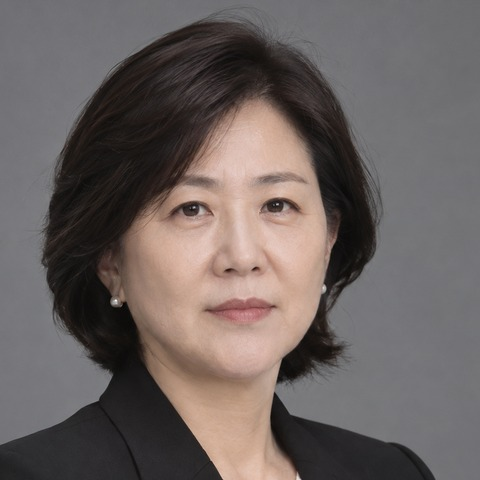
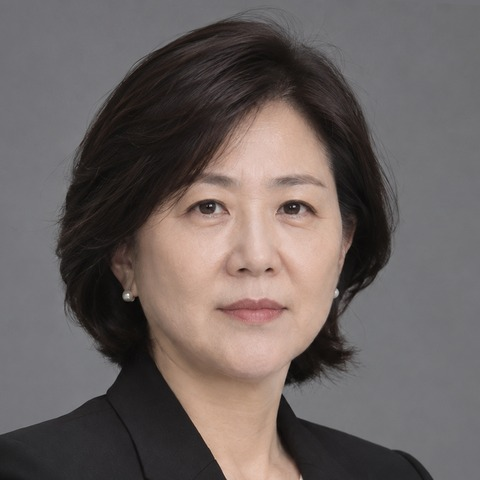
위원 명단: 한수연 사진 수평·가운데 보정, 위원 사진 캐시 버전 자동 부착
- 한수연: 두 눈 높이를 맞추도록 2.8° 회전, 얼굴과 머리 윤곽의 중간을 가운데로 다시 자름
- 위원 사진 주소에 사진 내용 해시(?v=)를 붙여 같은 이름으로 바꾼 사진도 바로 새로 보이게(명단 · 명함 · 출강 페이지)
- 작업-메모 사진 보정 기준 추가

Claude-Session: https://claude.ai/code/session_01KoEEpjpPmLkJkEAefGUqRE

diff --git a/members/index.html b/members/index.html
@@ -260,7 +260,7 @@
         +(NOTE[g]?'<p class="grp-note">'+NOTE[g]+'</p>':'');
     }
     function avatar(m){
-      if(m.photo)return '<div class="member-avatar member-avatar--photo"><img src="/assets/img/members/'+m.photo+'" alt="'+m.name+'" loading="lazy"></div>';
+      if(m.photo)return '<div class="member-avatar member-avatar--photo"><img src="/assets/img/members/'+m.photo+'?v=2511bc37" alt="'+m.name+'" loading="lazy"></div>';
       var initial=(m.name||'?').replace(/[^가-힣A-Za-z]/g,'').slice(0,1)||'·';
       return '<div class="member-avatar">'+initial+'</div>';
     }
@@ -388,7 +388,7 @@
     function sinceLabel(p){return SINCE[p.g]||'위촉'}
     function today(){var d=new Date();return d.getFullYear()+'.'+('0'+(d.getMonth()+1)).slice(-2)+'.'+('0'+d.getDate()).slice(-2)}
     function bigAvatar(m){
-      if(m.photo)return '<div class="bc-photo"><img src="/assets/img/members/'+m.photo+'" alt="'+m.name+' 사진"></div>';
+      if(m.photo)return '<div class="bc-photo"><img src="/assets/img/members/'+m.photo+'?v=2511bc37" alt="'+m.name+' 사진"></div>';
       var initial=(m.name||'?').replace(/[^가-힣A-Za-z]/g,'').slice(0,1)||'·';
       return '<div class="bc-photo bc-photo--initial">'+initial+'</div>';
     }

diff --git a/lecture/index.html b/lecture/index.html
@@ -576,7 +576,7 @@
     box.style.maxWidth='560px';box.style.margin='0 auto';
     box.innerHTML=list.map(function(m){
       var av;
-      if(m.photo){av='<div class="member-avatar member-avatar--photo"><img src="/assets/img/members/'+m.photo+'" alt="'+m.name+'" loading="lazy"></div>'}
+      if(m.photo){av='<div class="member-avatar member-avatar--photo"><img src="/assets/img/members/'+m.photo+'?v=2511bc37" alt="'+m.name+'" loading="lazy"></div>'}
       else{var initial=(m.name||'?').replace(/[^가-힣A-Za-z]/g,'').slice(0,1)||'·';av='<div class="member-avatar">'+initial+'</div>'}
       return '<div class="member">'+av
         +'<div class="member-role">'+(m.role||'전문위원')+'</div>'

diff --git a/build.py b/build.py
@@ -177,6 +177,19 @@ def _asset_version():
 BUILD_V = _asset_version()
 
 
+def _photo_version():
+    """위원 사진(assets/img/members/*)의 내용 해시. 사진 주소에 ?v= 로 붙여, 같은 파일명으로 사진을 바꿔도
+    이미 방문한 브라우저가 옛 사진을 계속 보여 주지 않게 합니다 (2026.09.26)."""
+    import hashlib
+    h = hashlib.sha1()
+    for p in sorted(glob.glob(os.path.join(os.path.dirname(os.path.abspath(__file__)), "assets", "img", "members", "*"))):
+        with open(p, "rb") as f:
+            h.update(os.path.basename(p).encode() + b"\0" + f.read() + b"\0")
+    return h.hexdigest()[:8]
+
+PHOTO_V = _photo_version()
+
+
 def _inline(s):
     """굵게 **텍스트**, 링크 [텍스트](주소) 변환"""
     s = _html.escape(s, quote=False)
@@ -1554,7 +1567,7 @@ def build_members():
         +(NOTE[g]?'<p class="grp-note">'+NOTE[g]+'</p>':'');
     }
     function avatar(m){
-      if(m.photo)return '<div class="member-avatar member-avatar--photo"><img src="assets/img/members/'+m.photo+'" alt="'+m.name+'" loading="lazy"></div>';
+      if(m.photo)return '<div class="member-avatar member-avatar--photo"><img src="assets/img/members/'+m.photo+'?v=__PV__" alt="'+m.name+'" loading="lazy"></div>';
       var initial=(m.name||'?').replace(/[^가-힣A-Za-z]/g,'').slice(0,1)||'·';
       return '<div class="member-avatar">'+initial+'</div>';
     }
@@ -1682,7 +1695,7 @@ def build_members():
     function sinceLabel(p){return SINCE[p.g]||'위촉'}
     function today(){var d=new Date();return d.getFullYear()+'.'+('0'+(d.getMonth()+1)).slice(-2)+'.'+('0'+d.getDate()).slice(-2)}
     function bigAvatar(m){
-      if(m.photo)return '<div class="bc-photo"><img src="assets/img/members/'+m.photo+'" alt="'+m.name+' 사진"></div>';
+      if(m.photo)return '<div class="bc-photo"><img src="assets/img/members/'+m.photo+'?v=__PV__" alt="'+m.name+' 사진"></div>';
       var initial=(m.name||'?').replace(/[^가-힣A-Za-z]/g,'').slice(0,1)||'·';
       return '<div class="bc-photo bc-photo--initial">'+initial+'</div>';
     }
@@ -2002,7 +2015,7 @@ def build_members():
     }else if(op){op.parentElement.parentElement.style.display='none'}
   })();
   </script>
-""".replace("__EMAIL__", EMAIL).replace("__SITE__", SITE_URL)
+""".replace("__EMAIL__", EMAIL).replace("__SITE__", SITE_URL).replace("__PV__", PHOTO_V)
     page("members.html", "위원 명단",
          "한국AI윤리위원회 위원장·부위원장·감사·고문 및 자문위원, 사무국, 전문위원, AI 윤리 캠페인위원 명단과 공식 등록 AI윤리전문가(성명·이수번호 검색), 공식 파트너를 안내합니다.",
          body, extra_script=script)
@@ -3671,7 +3684,7 @@ def build_lecture():
     box.style.maxWidth='560px';box.style.margin='0 auto';
     box.innerHTML=list.map(function(m){
       var av;
-      if(m.photo){av='<div class="member-avatar member-avatar--photo"><img src="assets/img/members/'+m.photo+'" alt="'+m.name+'" loading="lazy"></div>'}
+      if(m.photo){av='<div class="member-avatar member-avatar--photo"><img src="assets/img/members/'+m.photo+'?v=__PV__" alt="'+m.name+'" loading="lazy"></div>'}
       else{var initial=(m.name||'?').replace(/[^가-힣A-Za-z]/g,'').slice(0,1)||'·';av='<div class="member-avatar">'+initial+'</div>'}
       return '<div class="member">'+av
         +'<div class="member-role">'+(m.role||'전문위원')+'</div>'
@@ -3703,7 +3716,7 @@ def build_lecture():
     });
   })();
   </script>
-""".replace('__LEMAIL__', L_EMAIL)
+""".replace('__LEMAIL__', L_EMAIL).replace("__PV__", PHOTO_V)
 
     page("lecture.html", "AI 윤리교육 · 전문 출강",
          "한국AI윤리위원회 소속 석·박사 전문위원이 학교·기업·공공기관에 직접 출강하는 맞춤형 AI 윤리교육. AI 윤리, 기업 AI 컴플라이언스, 개인정보·보안, 생성형 AI 저작권, 청소년 AI 윤리를 1~4시간 과정으로 제공합니다.",

diff --git a/작업-메모.md b/작업-메모.md
@@ -124,7 +124,7 @@
   2차(같은 날) 사용자 지시 반영: ①그룹 제목 옆 인원수 → 남색 배지(위원장·부위원장·감사 'KAIEC 임원', 고문·자문위원 'KAIEC 자문단', 사무국 'KAIEC 운영진', 전문위원 'KAIEC 공식 출강', 캠페인위원 'KAIEC 공식 위촉'), 전문위원 안내문(현장 출강 · 석·박사 2인 공동 출강 · 출강 문의 링크). ②명함 인증 칩도 그룹별(임원 · 고문·자문위원 · 사무국 · 'KAIEC 공식 출강 강사' · 공식 위촉), 분야 라벨도 그룹별(담당/자문 분야/전문 분야/활동 분야). 전문위원 명함은 'AI 윤리 전문 교육 강사' 표기 + [출강 문의하기](/lecture/#request, 코드 상자 바로 아래) + 출강 대상·방식 행. ③[연락처 저장](vCard)은 '개인정보처럼 보인다'는 우려로 삭제(실제로는 대표 메일만 담았음) → [명함 이미지 저장](캔버스로 그린 1080×1350 PNG: 로고·사진·이름·코드·QR·소속·분야, 모바일은 공유 시트로 사진 저장/카톡 전송, PC는 KAIEC_<id>.png 다운로드, 명함 열 때 미리 생성) + [명함 공유](모바일 공유 시트, PC는 링크 복사). QR 라이브러리로 이미지 안 QR도 그림. ④모바일에서 명함 헤더의 흰 KAIEC 배지 글자 아래가 잘린다는 지적 → 명함 전용 로고 BADGE_CARD · WORDMARK_CARD(viewBox 사방 여백) + overflow:visible, 배지 86×40 · 워드마크 178px로 키움(≤380px 축소). 대표 메일과 홈페이지는 '대표 연락처' 한 행으로 합침.
   캠페인위원 추가(2026.09.26): 조성희 CSH7321(Cho Sung-hee), 지정인 JJI0046(Ji Jung-in), 서완석 SWS7351(Seo Wan-seok). 이재이 사진 교체(검정 재킷). 사용자 허락: 받은 관심분야는 있어 보이게 다듬어 넣어도 됨(예: 'AI 창업 비즈니스' → 'AI 창업 · 책임 있는 AI 비즈니스', 'AI 디지털교육' → 'AI · 디지털 교육 혁신'). 사진 크롭은 가로가 모자라면 가장자리 복제(np.pad edge)로 넓혀 머리 위 5% · 얼굴 비율을 다른 위원과 맞춤, 투명 PNG는 흰 배경 합성.
   3차(같은 날): ①명함 머리 로고가 1배율 화면에서 흐릿하다는 지적 → 명함 머리만 벡터 패스 대신 글꼴 텍스트(.bc-lockup: KAIEC Archivo 800, 국문 Noto Serif KR 900 24px, 캡션 Archivo 700 10px 자간 .169em로 국문 폭과 맞춤), 진남색 머리띠 + 금색 실선, 금색 테두리 배지. 헤더·푸터 워드마크는 기존 벡터 그대로. ②[명함 이미지 저장]을 진남색·금색 증서식 위원증으로 재설계: 2160×2700(논리 1080×1350 ×2), 이중 테두리·모서리 장식, 3:4 사진 금색 액자, 이름 명조, 위원 코드(없으면 취임·선임·위촉 일자), 소속·분야·(출강)·발급일, QR, 인증 문구, 미세 문자. ③QR과 새 버튼 [AI윤리전문가 양성과정 신청하기]는 https://kaiec.kr/expert-apply/?ref=<위원코드 또는 영문 슬러그>로 연결(사용자: 위원은 영업사원). 전문위원은 [출강 문의하기] 유지. 신청 페이지는 ref 를 30일 localStorage 에 기억하고 상단에 '○○ ○○의 추천으로 방문하셨습니다' 표시, 접수 시 '활용 목적' 칸 끝에 ' / 추천 위원: 성명(코드)'를 붙여 보냄(앱스 스크립트 수정 없음, 시트·알림 메일에서 위원별 실적 확인). [명함 공유]는 명함 주소 공유 그대로. 화면 QR은 오류정정 L + crispEdges(15명 × 1·1.25·2배율 45/45 판독). ④홈페이지 행은 문구 전체가 링크(모바일에서 눌러도 이동). ⑤상단 임원진 2줄: .lead-grid 4열(위원장·부위원장·고문·자문위원 / 감사·사무국, 그룹이 카드 수만큼 칸 차지), 1230px 이하 3열·600px 이하 2열. ⑥'수강' 표현 전면 삭제, '2인 공동 출강' 전면 삭제(출강 페이지·전문위원 안내·게시글). ⑦김동섭 사진 교체, 캠페인위원 양대산 YDS5505 · 허윤영 HYY6754 · 한효주 HHJ6913 · 임호용 LHY6444(임 → Lim, 임형택과 같은 표기) 추가. 사용자가 '1. 이름/번호 3. 분야'처럼 번호를 붙여 보내도 번호는 무시. 사진 크롭 공통: 머리 위 5%, 모자란 옆은 반사 패딩(배경·옷 무늬가 자연스럽게 이어짐) 또는 행 평균 채움, 저해상도(400px 미만)는 확대 후 약한 언샤프.
-  4차(같은 날, 공식 제출용): ①명함 머리 로고의 금테 제거 → 사이트 푸터와 같은 진남색 배지(안쪽 실선) + 흰 국문 워드마크 + 스틸블루 영문(#9FB3D1), 머리띠는 먹색→진남색 그라데이션, .bc-lockup 에 will-change 로 윈도 색 번짐 완화. ②[명함 이미지 저장]을 '공식 위원증' 형식으로 재설계: 흰 바탕 + 진남색 머리띠(옅은 물결 보안선, 파란 6px 선) + 오른쪽 위 '공식 위원증 / OFFICIAL MEMBER CARD', 3:4 사진(흰 여백·옅은 테두리), 직위·이름(Pretendard 800)·영문·인증 문구, 위원 코드(없으면 직위)·취임/선임/위촉, 소속·분야·(출강)·발급일, QR(양성과정 신청), 확인 문구 박스('위 사람은 한국AI윤리위원회 … 임을 확인합니다.' + 공식 명단 확인 주소), 진남색 바닥띠. 화면 명함에도 같은 확인 문구(.bc-cert) 추가. 인증 칩: 캠페인위원 '공식 위촉', 전문위원 'KAIEC 공식 출강 강사', 그 외 '한국AI윤리위원회 공식 명단 등재'. ③명단 임원진 제목 옆 배지 삭제('임원' 반복이 조잡), 배지는 전문위원·캠페인위원만. 둘째 줄 순서 사무국 → 감사. ④members-data 에 cred(자격 표기) 필드 신설: 한수연 cred '변호사' → '변호사 · 법률고문'으로 표시(목록·명함·위원증), 사진 han-sooyeon.jpg. 감사 윤미정 사진 yoon-mijeong.jpg(사용자가 세 번 보냈고 마지막 사진 사용). 게시글의 '법률 자문 한수연' → '법률고문 한수연 변호사'. ⑤캠페인위원 안지희 AJH4650(Ahn Ji-hee) 추가. ⑥(같은 날 추가) 감사 윤미정을 사무국 그룹 안으로 옮김(group '사무국', role '감사' → 명함 소속 '사무국', 확인 문구 '사무국 감사') 그리고 사무국 팀장 공석 3건 삭제로 '위촉 진행 중' 카드 없앰. 임원진 둘째 줄은 사무국(사무총장·감사) 한 그룹. 조직도·소개 페이지의 사무국 3팀 설명은 그대로. 사진 구도는 얼굴 검출(Haar) 기준으로 맞춤: 캠페인위원 얼굴 폭 ≈ 0.44~0.46, 임원진 ≈ 0.49~0.55, 머리 위 여백 3.5~4%.
+  4차(같은 날, 공식 제출용): ①명함 머리 로고의 금테 제거 → 사이트 푸터와 같은 진남색 배지(안쪽 실선) + 흰 국문 워드마크 + 스틸블루 영문(#9FB3D1), 머리띠는 먹색→진남색 그라데이션, .bc-lockup 에 will-change 로 윈도 색 번짐 완화. ②[명함 이미지 저장]을 '공식 위원증' 형식으로 재설계: 흰 바탕 + 진남색 머리띠(옅은 물결 보안선, 파란 6px 선) + 오른쪽 위 '공식 위원증 / OFFICIAL MEMBER CARD', 3:4 사진(흰 여백·옅은 테두리), 직위·이름(Pretendard 800)·영문·인증 문구, 위원 코드(없으면 직위)·취임/선임/위촉, 소속·분야·(출강)·발급일, QR(양성과정 신청), 확인 문구 박스('위 사람은 한국AI윤리위원회 … 임을 확인합니다.' + 공식 명단 확인 주소), 진남색 바닥띠. 화면 명함에도 같은 확인 문구(.bc-cert) 추가. 인증 칩: 캠페인위원 '공식 위촉', 전문위원 'KAIEC 공식 출강 강사', 그 외 '한국AI윤리위원회 공식 명단 등재'. ③명단 임원진 제목 옆 배지 삭제('임원' 반복이 조잡), 배지는 전문위원·캠페인위원만. 둘째 줄 순서 사무국 → 감사. ④members-data 에 cred(자격 표기) 필드 신설: 한수연 cred '변호사' → '변호사 · 법률고문'으로 표시(목록·명함·위원증), 사진 han-sooyeon.jpg. 감사 윤미정 사진 yoon-mijeong.jpg(사용자가 세 번 보냈고 마지막 사진 사용). 게시글의 '법률 자문 한수연' → '법률고문 한수연 변호사'. ⑤캠페인위원 안지희 AJH4650(Ahn Ji-hee) 추가. ⑥(같은 날 추가) 감사 윤미정을 사무국 그룹 안으로 옮김(group '사무국', role '감사' → 명함 소속 '사무국', 확인 문구 '사무국 감사') 그리고 사무국 팀장 공석 3건 삭제로 '위촉 진행 중' 카드 없앰. 임원진 둘째 줄은 사무국(사무총장·감사) 한 그룹. 조직도·소개 페이지의 사무국 3팀 설명은 그대로. ⑦한수연 사진이 '가운데가 아니고 삐뚤다'는 지적 → 두 눈 높이 차(8px, 약 2.8°)만큼 눈 중점을 기준으로 시계 방향 회전해 수평을 맞추고, 가로 중심을 얼굴(눈 중점 618)과 머리 윤곽 중심(576)의 중간(597)으로 다시 잘라 교체. 몸을 돌린 사진은 얼굴 검출 중심만 쓰면 머리 전체가 한쪽으로 치우쳐 보이므로 이 방식(눈 수평 + 얼굴·머리 윤곽 중간값)으로 맞출 것. ⑧위원 사진 주소에 사진 내용 해시(PHOTO_V, build.py)를 ?v= 로 자동으로 붙임: 같은 파일명으로 사진을 바꿔도 방문자 브라우저가 옛 사진을 보여 주지 않음(명단·명함·출강 페이지 자문 위원단). 사진 파일 이름을 바꾸거나 지우는 대신 같은 이름으로 덮어쓰면 됨(사용자 컴퓨터 저장소는 파일 삭제 권한이 없어 이름 변경·삭제가 막힘). 사진 구도는 얼굴 검출(Haar) 기준으로 맞춤: 캠페인위원 얼굴 폭 ≈ 0.44~0.46, 임원진 ≈ 0.49~0.55, 머리 위 여백 3.5~4%.
 - 2026.09.25(25차) **AI윤리전문가(AIEP) 표기 도입**
   사용자 지시: 오퍼 카드 제목 "AI윤리전문가(AIEP) 과정", 메인 버튼 "AIEP 신청하기 →", 서브 버튼 "과정 안내 보기". /experts/ 빵부스러기 "AI윤리전문가(AIEP)", 히어로 문장 "홈페이지에 AI윤리전문가(AI Ethics Professional)로 공식 등록". 평가응시 포함 "깔끔하게 넣을 수 있는 곳 전부, 조잡하지 않게, 디자인과 구성에 맞게".
   적용(build.py 상수 AIEP · AIEP_EN · AIEP_H, style.css `.aiep`): 큰 제목 안에서는 `AIEP_H`(괄호 부분 0.7em · opacity .78, 괄호는 유지) · 본문·라벨은 일반 글자 "(AIEP)". 들어간 곳: 메인(피처 카드 셋째 줄, 오퍼 절 eyebrow 'AI Ethics Professional · AIEP', 오퍼 카드 제목 · 버튼), 하단 고정 바("AI윤리전문가(AIEP) 과정 특별가 …" + [AIEP 신청하기]), 공통 하단 배너 기본 문구 첫 언급, /experts/(빵부스러기, h1 "KAIEC 공식 AI윤리전문가(AIEP)", 히어로 영문 풀이, 등록 카드 예시 · 명단 카드 역할 줄 "KAIEC 공식 AI윤리전문가(AIEP)", 시작 오퍼 카드 제목 · 버튼, 페이지 제목 · 설명 · 키워드), /expert/(빵부스러기, h1, 과정 절 h2 끝, 과정 카드 제목 "AI윤리전문가(AIEP) 과정", 페이지 제목 · 설명 · 키워드, Course JSON-LD alternateName ["AIEP","AI Ethics Professional"] · 설명의 '홈페이지 홈페이지' 중복 수정), /expert-apply/ h1 · 페이지 제목, /members/ AI윤리전문가 절 h2 · 명단 카드 역할 줄, 게시글 중간 CTA 머리말, 실무 진단 결과 '다음 단계', 이력서 표기(RESUME_KO "AI윤리전문가(AIEP) · 한국AI윤리위원회 이수", PROG_EN "AI Ethics Professional (AIEP), Korea AI Ethics Committee", 링크드인 Name 안내). 평가응시: 로그인 상자 머리 "AI윤리전문가(AIEP) 양성과정", 결제 버튼 "AIEP 과정 등록하기", 설명 · 키워드, exam.js `courseLabel()`(표시 전용: 대시보드 패널 제목 · 신청 과정 · 진행 중 알림 · 응시 전 확인 · 시작 대화상자 · 시험 머리 · 결과 화면 · 결과 표. 서버와 주고받는 과정 값 · 과정 키 · 문의 메일 제목은 'AI윤리전문가 양성과정' 그대로, 체험 모드로 확인).
